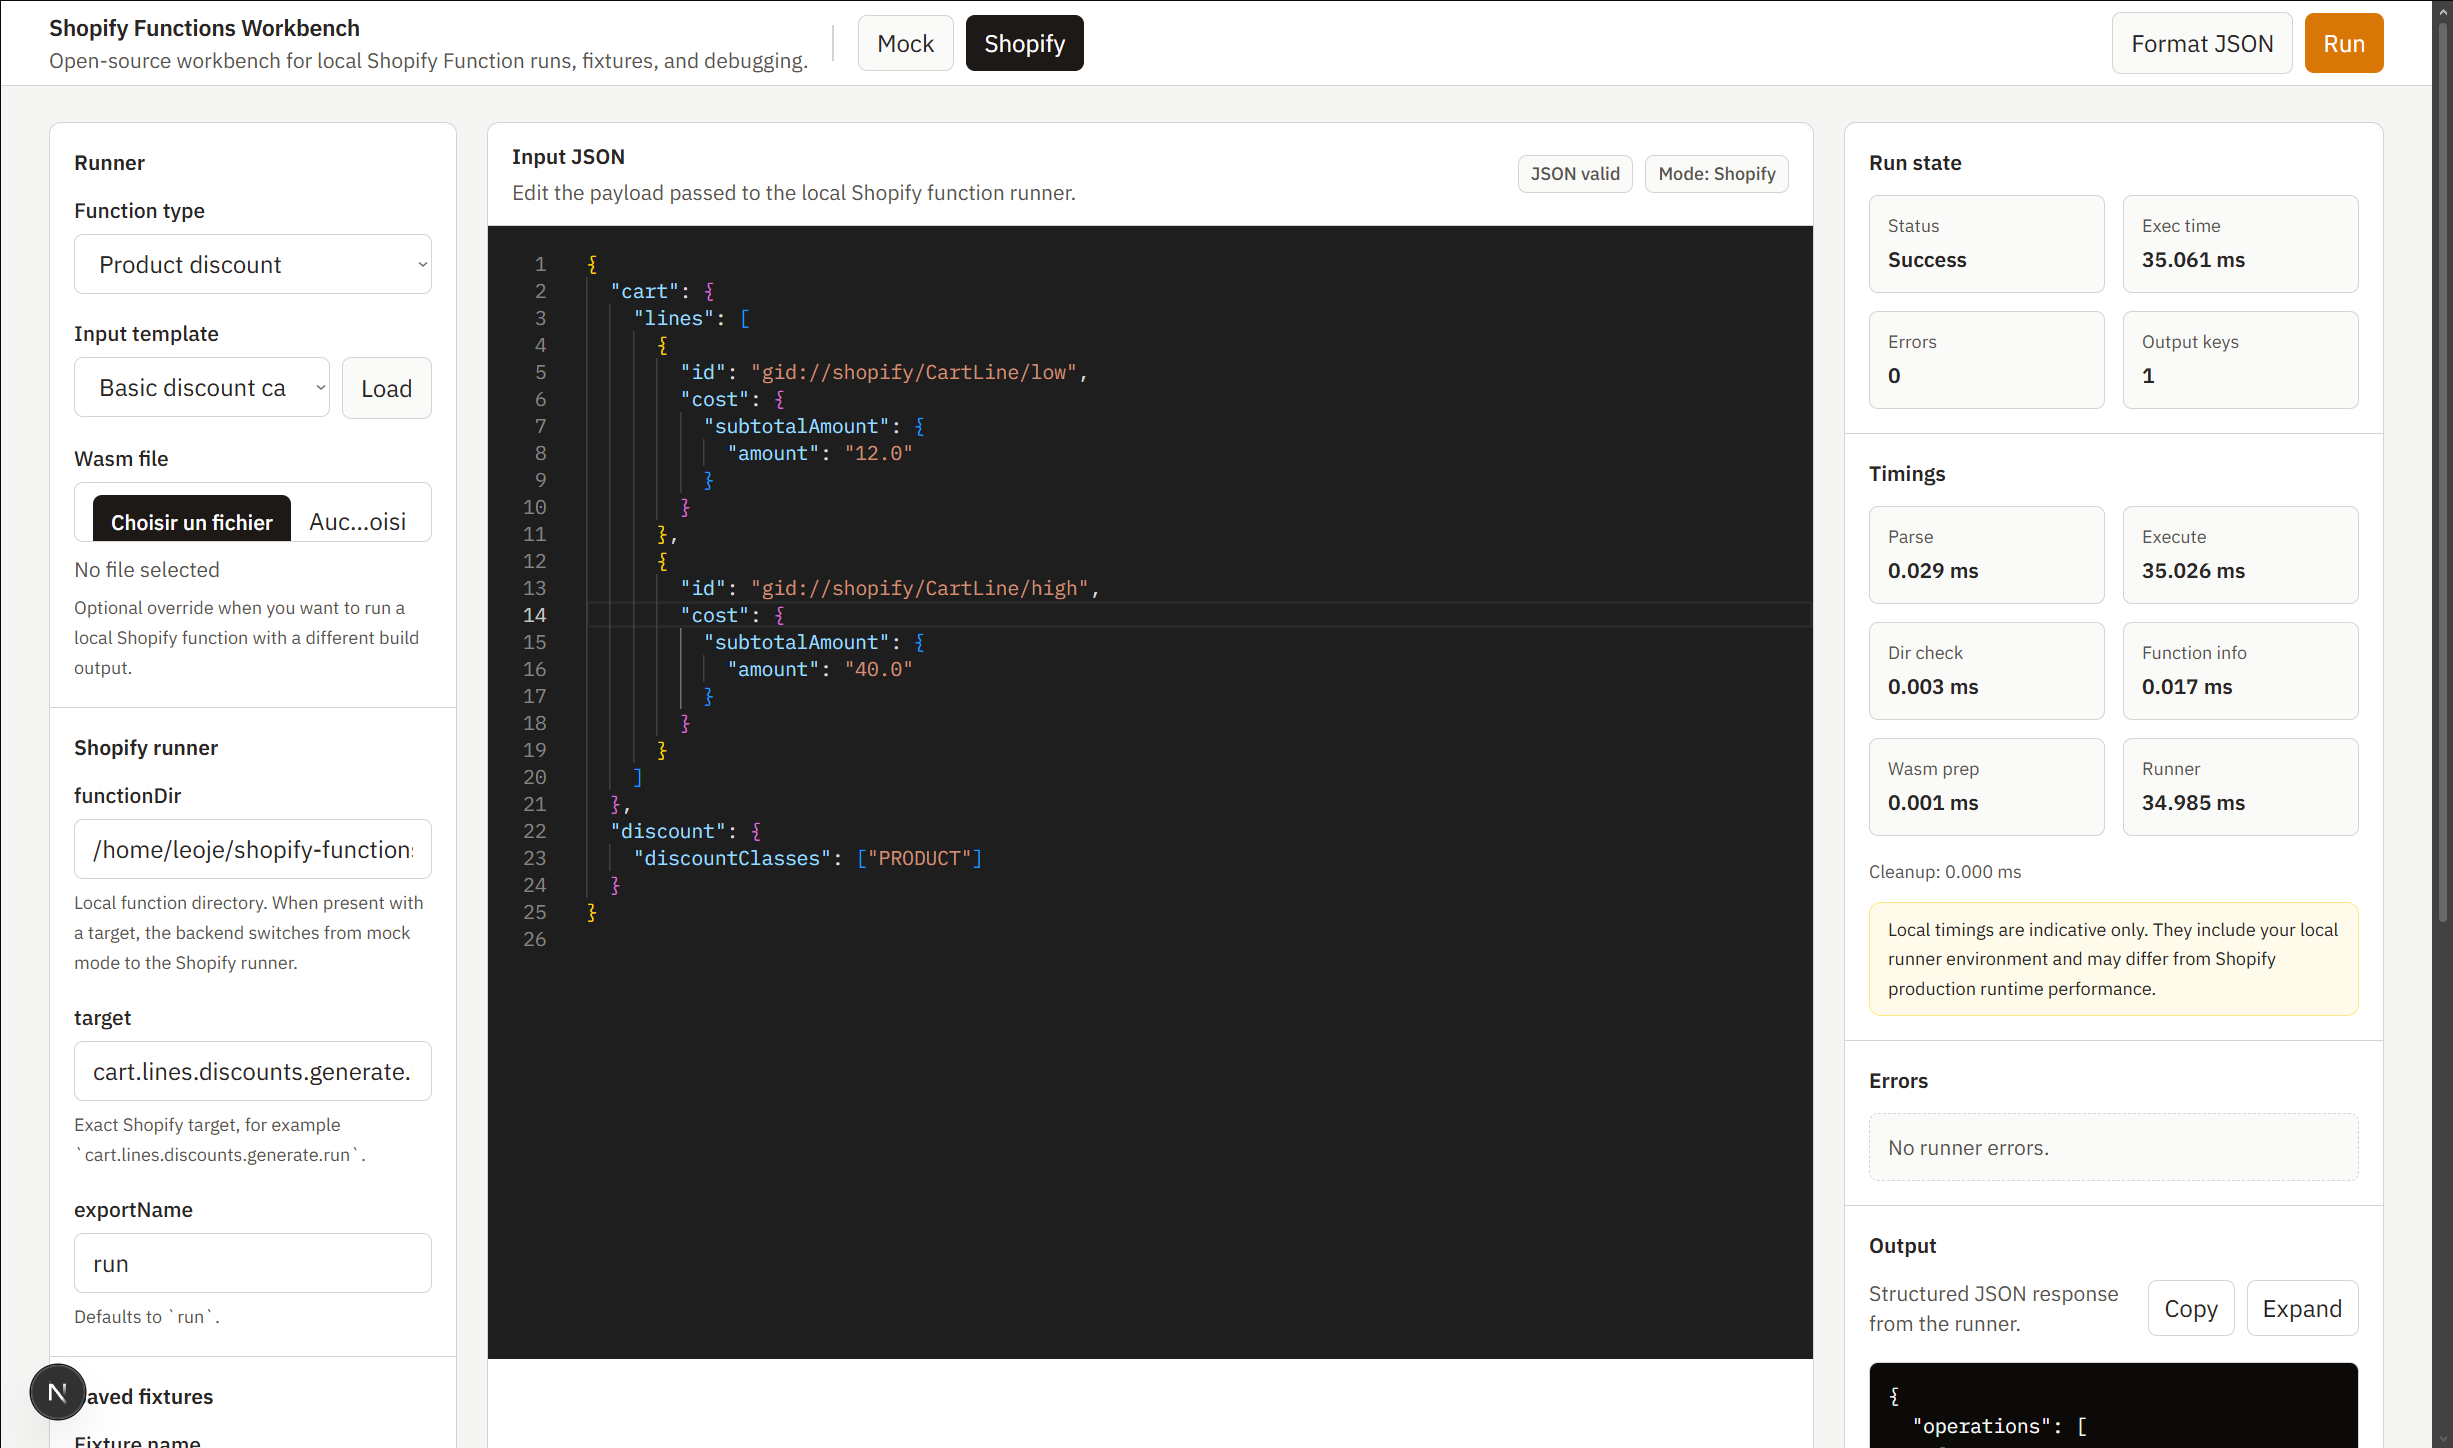
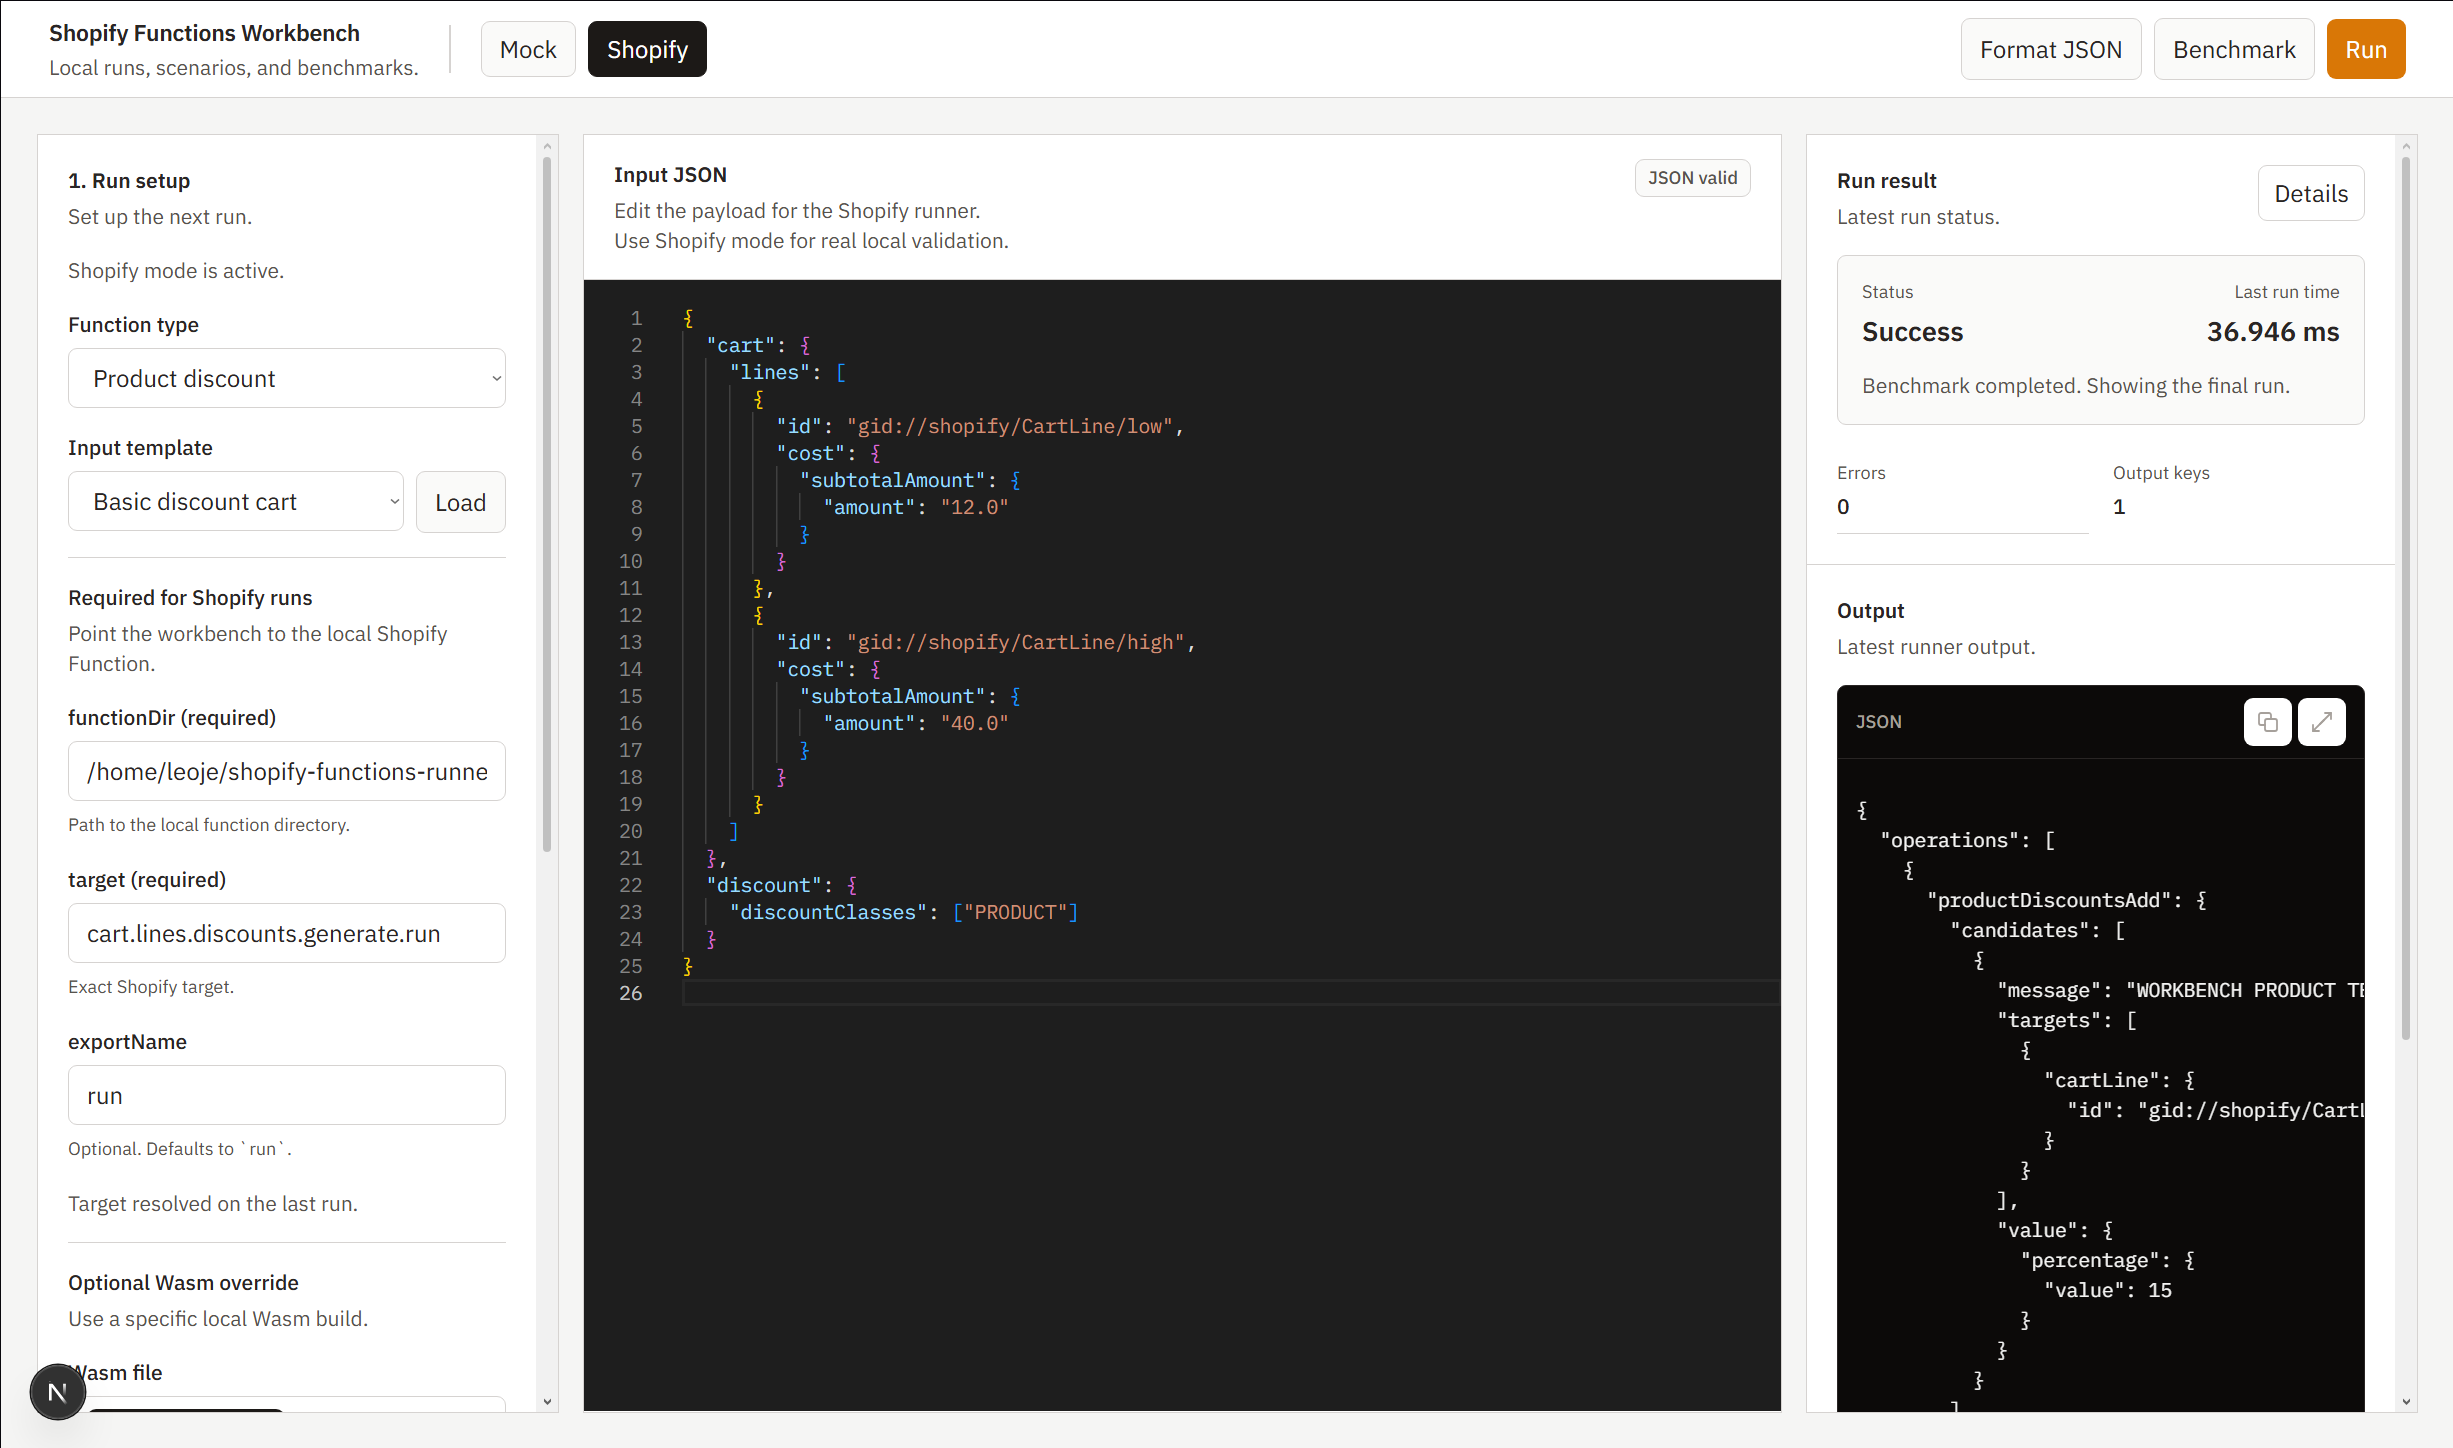
mise à jour projet

diff --git a/lib/locales/fr/projects.ts b/lib/locales/fr/projects.ts
@@ -57,58 +57,59 @@ export const projects: Project[] = [
     slug: 'shopify-functions-workbench',
     title: 'Shopify Functions Workbench',
     tagline:
-      'Outil open source de test local pour Shopify Functions, pensé pour exécuter un `.wasm` et inspecter rapidement le résultat sans passer par un cycle complet de déploiement.',
+      'Workbench open source pour exécuter, benchmarker et déboguer des Shopify Functions localement avant déploiement.',
     short:
-      'Workbench local pour tester des Shopify Functions `.wasm`, manipuler des inputs JSON et lire le résultat immédiatement.',
+      'Outil local pour lancer des Shopify Functions `.wasm`, manipuler des inputs JSON, inspecter les erreurs et comparer les timings.',
     description:
-      "Outil développeur open source conçu pour raccourcir la boucle de feedback autour des Shopify Functions et rendre leur test local beaucoup plus confortable.",
+      "Outil développeur open source conçu pour raccourcir la boucle de feedback autour des Shopify Functions, avec runner local, scénarios sauvegardés, diagnostics et benchmark.",
     imageSrc: '/images/capture-shopify-functions.png',
     imageAlt: 'Capture du projet Shopify Functions Workbench',
     tech: ['Next.js', 'React', 'NestJS', 'TypeScript', 'Monaco Editor', 'WebAssembly'],
     date: '2026-03',
     featured: true,
     status: 'En cours',
-    role: 'Conception produit, UX orientée DX, développement full-stack, exécution locale WebAssembly.',
+    role: 'Conception produit, UX orientée DX, développement full-stack, runner Shopify local et benchmark.',
     context:
       "Tester une Shopify Function reste souvent trop lent et trop dépendant d'un cycle complet de build, déploiement, branchement à une boutique puis vérification du résultat.",
     problem:
       "Comment permettre à un développeur Shopify de charger un `.wasm`, fournir un input JSON réaliste et comprendre immédiatement ce que la fonction renvoie, sans friction inutile ni setup lourd ?",
     process: [
-      "Définition d'un MVP centré sur la réduction de la boucle de feedback et la démonstration rapide de la valeur du produit.",
-      "Conception d'une interface de type mini-IDE pour séparer clairement le chargement du `.wasm`, l'édition du JSON, le choix du type de function et la lecture du résultat.",
-      "Mise en place d'une architecture monorepo simple avec frontend Next.js, backend NestJS et prise en charge d'un mode mock puis d'un chemin d'exécution Shopify réel.",
+      "Définition d'un MVP centré sur la réduction de la boucle de feedback et la validation d'un vrai chemin d'exécution Shopify.",
+      "Conception d'une interface de type mini-IDE organisée en trois zones : setup, input JSON et résultat.",
+      "Ajout progressif de scénarios locaux, import/export, diagnostics structurés, benchmark et exemples officiels pour tester les principaux types de Functions.",
     ],
     solution: [
-      "Web app locale permettant d'uploader un `.wasm`, de choisir un type de function Shopify, d'éditer ou d'importer un input JSON, puis d'exécuter localement.",
-      "Éditeur JSON Monaco, templates / fixtures réutilisables, import-export des cas de test et affichage clair des outputs, erreurs et timings.",
-      "Backend NestJS exposant un endpoint `/run`, capable de gérer un mode mock rapide et un mode réel basé sur les métadonnées Shopify CLI et `function-runner`.",
+      "Web app locale permettant d'uploader un `.wasm`, de choisir un type de function Shopify, d'éditer un input JSON et de lancer un run ou un benchmark.",
+      "Éditeur JSON Monaco, scénarios sauvegardés dans le navigateur, import/export, actions sur l'output et drawer de détails pour les timings.",
+      "Backend NestJS exposant un endpoint `/run`, avec mode mock, mode Shopify réel via les métadonnées CLI et exemples officiels product discount, delivery customization et cart transform.",
     ],
     deliverables: [
       'Monorepo frontend / backend',
       'Runner local `.wasm`',
       'Éditeur JSON Monaco',
-      'Fixtures sauvegardées et import/export',
-      'Panneaux output / erreurs / timings',
+      'Scénarios sauvegardés et import/export',
+      'Benchmark et diagnostics structurés',
+      'Exemples Shopify prêts à lancer',
     ],
     results: [
       {
-        value: 'Boucle de feedback réduite',
-        label: "Le test local devient beaucoup plus rapide à lancer qu'un cycle complet de déploiement Shopify.",
+        value: 'Runner Shopify réel',
+        label: "Le backend peut exécuter une Function via les métadonnées Shopify CLI et l'outil `function-runner`.",
       },
       {
-        value: 'DX plus claire',
-        label: "L'outil aide à distinguer plus facilement les problèmes de structure JSON, d'exécution et de contrat d'entrée/sortie.",
+        value: 'Debug plus lisible',
+        label: "Les erreurs, diagnostics Shopify, outputs et timings sont séparés pour mieux comprendre l'échec d'un run.",
       },
       {
-        value: 'Base open source démontrable',
-        label: 'Le MVP est déjà suffisamment concret pour être montré, documenté et enrichi progressivement.',
+        value: 'MVP démontrable',
+        label: 'Des exemples officiels et des scénarios locaux permettent de tester rapidement product discount, delivery customization et cart transform.',
       },
     ],
     screens: [
       {
         src: '/images/capture-shopify-functions.png',
         alt: 'Capture réelle du Shopify Functions Workbench',
-        caption: "Interface locale de test avec upload du `.wasm`, édition JSON, mode d'exécution et panneaux de résultat.",
+        caption: 'Interface locale en trois panneaux avec setup Shopify, éditeur JSON Monaco, résultats, diagnostics et timings.',
       },
     ],
     links: [

diff --git a/lib/locales/en/projects.ts b/lib/locales/en/projects.ts
@@ -57,58 +57,59 @@ export const projects: Project[] = [
     slug: 'shopify-functions-workbench',
     title: 'Shopify Functions Workbench',
     tagline:
-      'Open-source local testing tool for Shopify Functions, designed to run a `.wasm` file and inspect the output quickly without going through a full Shopify deployment loop.',
+      'Open-source workbench for running, benchmarking and debugging Shopify Functions locally before deployment.',
     short:
-      'Local workbench for testing Shopify Functions `.wasm`, editing JSON inputs and reading the result immediately.',
+      'Local tool for running Shopify Functions `.wasm` files, editing JSON inputs, inspecting errors and comparing timings.',
     description:
-      'Open-source developer tool built to shorten the feedback loop around Shopify Functions and make local testing much more comfortable.',
+      'Open-source developer tool built to shorten the Shopify Functions feedback loop with a local runner, saved scenarios, diagnostics and benchmarking.',
     imageSrc: '/images/capture-shopify-functions.png',
     imageAlt: 'Screenshot of Shopify Functions Workbench',
     tech: ['Next.js', 'React', 'NestJS', 'TypeScript', 'Monaco Editor', 'WebAssembly'],
     date: '2026-03',
     featured: true,
     status: 'In progress',
-    role: 'Product design, DX-focused UX, full-stack development and local WebAssembly execution.',
+    role: 'Product design, DX-focused UX, full-stack development, local Shopify runner and benchmarking.',
     context:
       'Testing a Shopify Function is often too slow and too dependent on a full cycle of build, deploy, connect to a store and inspect the result.',
     problem:
       'How do you let a Shopify developer load a `.wasm`, provide a realistic JSON input and immediately understand the output without unnecessary friction or heavy setup?',
     process: [
-      'Defined an MVP focused on shortening the feedback loop and demonstrating immediate product value.',
-      'Designed a mini-IDE style interface to clearly separate `.wasm` upload, JSON editing, function-type selection and result reading.',
-      'Built a simple monorepo architecture with a Next.js frontend, a NestJS backend and a progression from fast mock execution to a real Shopify runner path.',
+      'Defined an MVP focused on shortening the feedback loop and validating a real Shopify execution path.',
+      'Designed a mini-IDE style interface organized into setup, JSON input and result panels.',
+      'Progressively added local scenarios, import/export, structured diagnostics, benchmarking and official examples for the main Function types.',
     ],
     solution: [
-      'Local web app allowing developers to upload a `.wasm`, choose a Shopify function type, edit or import JSON input, and execute locally.',
-      'Monaco JSON editor, reusable templates / fixtures, import-export flows and clear output, error and timing panels.',
-      'NestJS backend exposing a `/run` endpoint, supporting both a fast mock mode and a real mode based on Shopify CLI metadata and `function-runner`.',
+      'Local web app allowing developers to upload a `.wasm`, choose a Shopify function type, edit JSON input and launch a run or benchmark.',
+      'Monaco JSON editor, browser-saved scenarios, import/export, inline output actions and a details drawer for timings.',
+      'NestJS backend exposing a `/run` endpoint with mock mode, real Shopify mode through CLI metadata, and official product discount, delivery customization and cart transform examples.',
     ],
     deliverables: [
       'Frontend / backend monorepo',
       'Local `.wasm` runner',
       'Monaco JSON editor',
-      'Saved fixtures with import/export',
-      'Output / error / timing panels',
+      'Saved scenarios with import/export',
+      'Benchmarking and structured diagnostics',
+      'Ready-to-run Shopify examples',
     ],
     results: [
       {
-        value: 'Shorter feedback loop',
-        label: 'Local testing becomes much faster to trigger than a full Shopify deployment cycle.',
+        value: 'Real Shopify runner',
+        label: 'The backend can execute a Function through Shopify CLI metadata and the official `function-runner`.',
       },
       {
-        value: 'Clearer DX',
-        label: 'The tool makes it easier to isolate JSON structure issues, execution problems and input/output contract mismatches.',
+        value: 'Clearer debugging',
+        label: 'Errors, Shopify diagnostics, outputs and timings are separated to make failed runs easier to understand.',
       },
       {
-        value: 'Demonstrable open-source base',
-        label: 'The MVP is already concrete enough to document, show and extend over time.',
+        value: 'Demonstrable MVP',
+        label: 'Official examples and local scenarios make product discount, delivery customization and cart transform quick to test.',
       },
     ],
     screens: [
       {
         src: '/images/capture-shopify-functions.png',
         alt: 'Real screenshot of Shopify Functions Workbench',
-        caption: 'Local testing interface with `.wasm` upload, JSON editing, runner mode selection and result panels.',
+        caption: 'Three-panel local interface with Shopify setup, Monaco JSON editor, results, diagnostics and timings.',
       },
     ],
     links: [
